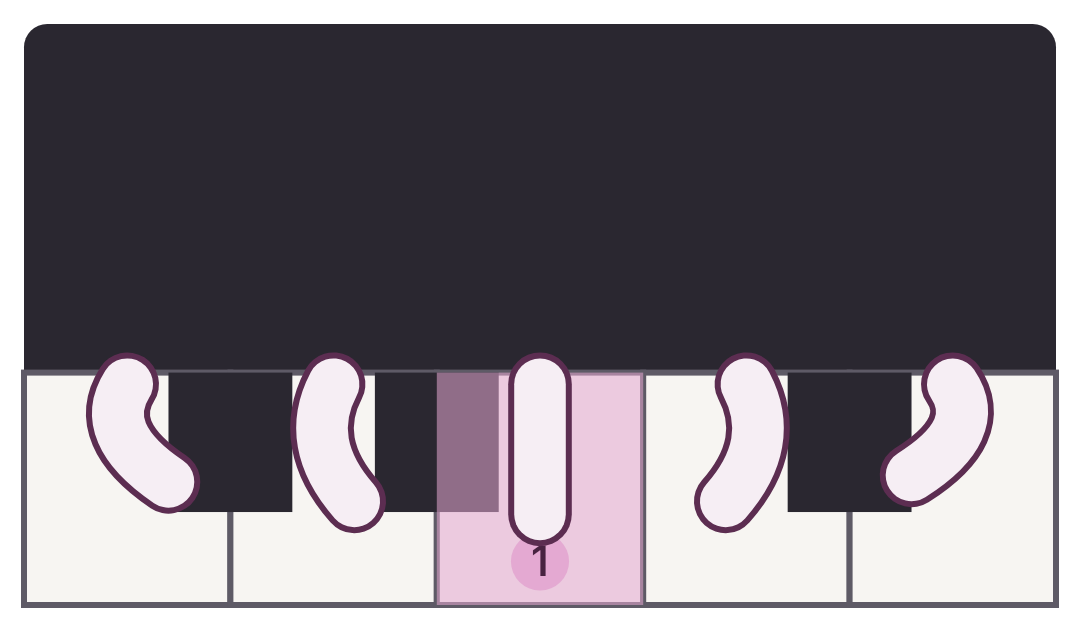
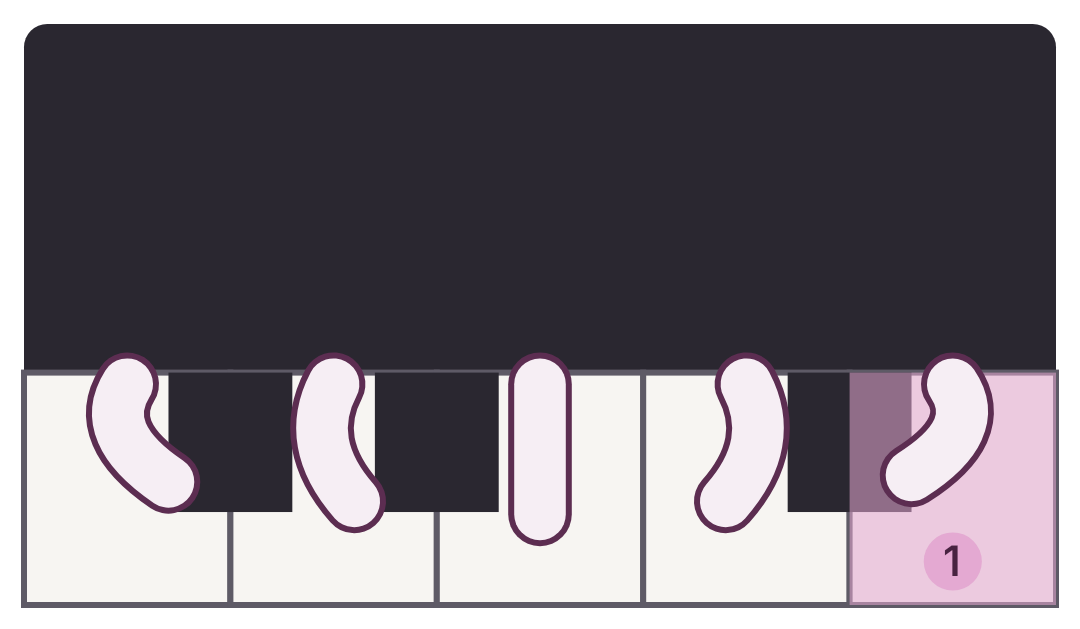
fix(lesson): left-hand C position card lights the white keys (#313)
## Summary
The left-hand C position card scene lit 48..52 chromatically (C, C♯, D,
D♯, E) instead of the white keys C D E F G. It now uses an explicit key
list, as the left-hand G scene does. Found reviewing #274.

## Verification
- `./gradlew fastCheck` → exit 0 (pre-commit and pre-push hooks).
- The new `CardScenesTest` case ("lights the white keys C D E F G with
fingers 5 to 1") failed before the fix and passes after.
- `CardScene_lh-c-position` re-recorded in light and dark; I checked the
light golden, which ends on finger 1 on G.

## Checklist
- [x] PR title follows Conventional Commits
- [x] Every commit is signed off
- [x] Tests added or updated; `./gradlew fastCheck` passes
- [x] Docs updated: `docs/ROADMAP.md`
- [x] No code or content copied from GPL projects, piano-vendor apps or
competitor apps
- [x] AI assistance used: Claude Code; every line reviewed and tested

---
_Generated by [Claude Code](https://claude.ai/code)_

---------

Changed region(s): [[0.3972, 0.5739, 0.6111, 0.9666], [0.7639, 0.5739, 0.9778, 0.9666]]

diff --git a/engine/src/commonMain/kotlin/pianoanchor/engine/content/CardScenes.kt b/engine/src/commonMain/kotlin/pianoanchor/engine/content/CardScenes.kt
@@ -142,6 +142,9 @@ private const val RHODY_GAP_MS = 40
 private val G_POSITION_NOTES = listOf(67, 69, 71, 72, 74)
 private val LEFT_G_POSITION_NOTES = listOf(43, 45, 47, 48, 50)
 
+/** The white keys of the left-hand C position, C3 up to G3. */
+private val LEFT_C_POSITION_NOTES = listOf(LOW_C, 50, E_ABOVE_LOW_C, F_ABOVE_LOW_C, G_ABOVE_LOW_C)
+
 /** The notes of the key of G the scene lights after the F sharp, from F sharp up to D. */
 private val G_KEY_NOTES = listOf(F_SHARP_4) + G_POSITION_NOTES
 
@@ -347,7 +350,7 @@ internal object CardScenes {
         CardScene(
             SceneStage(LOW_C..G_ABOVE_LOW_C, hand = SceneHand.LEFT),
             listOf(cue(0, CARD_SCENE_LOOP_MS, SceneAction.HandPose(curved = true, overNote = G_ABOVE_LOW_C))) +
-                (LOW_C..52).mapIndexed { i, note ->
+                LEFT_C_POSITION_NOTES.mapIndexed { i, note ->
                     cue(FIRST_FINGER_MS_LEFT + i * RUN_MS, RUN_MS, LightKey(note, finger = 5 - i))
                 },
             "The left hand sits curved on the low C and its fingers 5 down to 1 light up the keys in turn.",

diff --git a/engine/src/commonTest/kotlin/pianoanchor/engine/content/CardScenesTest.kt b/engine/src/commonTest/kotlin/pianoanchor/engine/content/CardScenesTest.kt
@@ -118,6 +118,12 @@ class CardScenesTest {
     }
 
     @Test
+    fun `the left-hand C position scene lights the white keys C D E F G with fingers 5 to 1`() {
+        assertEquals(listOf(48, 50, 52, 53, 55), lights("lh-c-position").map { it.note })
+        assertEquals(listOf(5, 4, 3, 2, 1), lights("lh-c-position").map { it.finger })
+    }
+
+    @Test
     fun `key of G lights F then F sharp strong then the key's notes`() {
         val lights = lights("key-of-g")
         assertEquals(listOf(65, 66), lights.take(2).map { it.note })

diff --git a/docs/ROADMAP.md b/docs/ROADMAP.md
@@ -40,18 +40,15 @@ The task queue for `/next-task` (`.claude/skills/next-task/`): one item per sess
 Remove an item in the PR that finishes it; add follow-ups here. Dependencies in brackets, as spec issue numbers
 (renumbering items doesn't break them); `docsCheck` fails when an item comes before an item whose spec it depends on.
 Checks that need a phone and a piano are under "Owner device checks", not here.
-1. **Left-hand C position card keys** (found reviewing #274): the left-hand C position card scene lights
-    48..52 chromatically (C, C♯, D, D♯, E) instead of the white keys C D E F G; use an explicit key list like the
-    left-hand G scene and re-record its screenshots.
-2. **See hand: wait for "Your turn"** (spec #298): when See shows a hand, it moves on to Try after the hold, the
+1. **See hand: wait for "Your turn"** (spec #298): when See shows a hand, it moves on to Try after the hold, the
     fade and a short "Your turn" moment.
-3. **Course 2: Unit 7, scales with thumb-under (M6.7)** (spec #300) [#295, #296]: an even-scale Try, the C and G
+2. **Course 2: Unit 7, scales with thumb-under (M6.7)** (spec #300) [#295, #296]: an even-scale Try, the C and G
     major scales (right hand) and the left-hand C scale, Joy to the World, sight-reading level 14 and an eighth
     placement piece; closes course 2.
-4. **Wrong-key hint names from Compose resources** (spec #309; found reviewing #304): the hint text beside the strips still
+3. **Wrong-key hint names from Compose resources** (spec #309; found reviewing #304): the hint text beside the strips still
     names notes with English letters from `MidiNote.spoken()`, so a translated build would name the same key two ways;
     spell the hint's notes with the key-name string resources the strips use.
-5. **Staff spelling: leading tones and the card staff** (found reviewing #307): flat keys spell every black key as a
+4. **Staff spelling: leading tones and the card staff** (found reviewing #307): flat keys spell every black key as a
     flat, so a leading-tone sharp (C♯ in D minor) reads as D♭; and the lesson cards' staff still spells sharps in every
     key. Spell by the key's scale degrees and make the card staff use the engine's spelled step.
 
